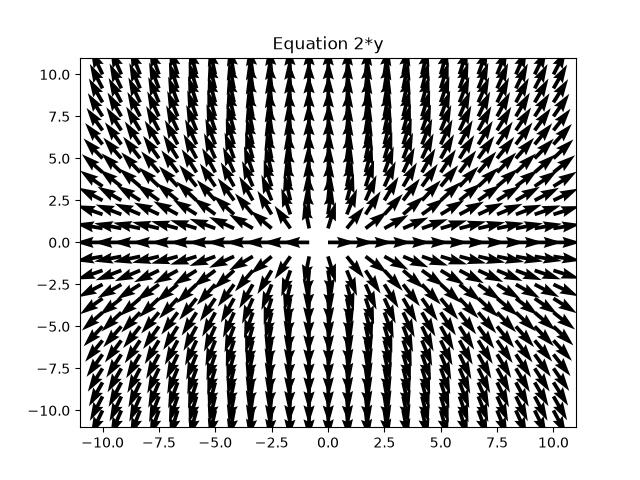
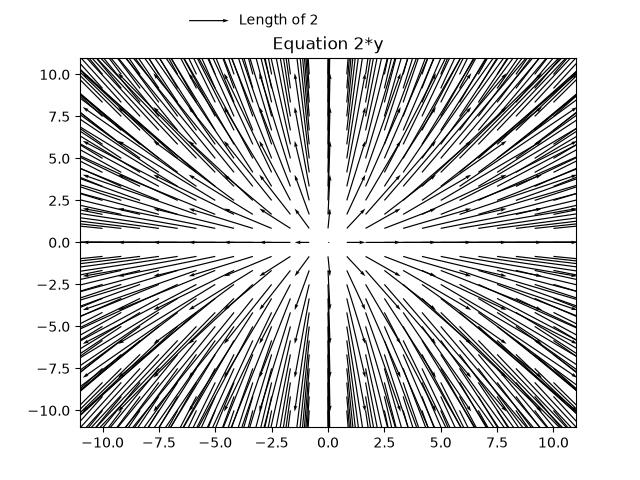
modified arrowheads, added some octave

diff --git a/vector_field.py b/vector_field.py
@@ -32,18 +32,19 @@ exprs = [expr_0,expr_1,expr_2,expr_3,expr_4,expr_5]
 
 
 test = np.linspace(-10,10,25)
-
+I, J = np.meshgrid(test,test)
+step = 0.1
 #fig, ax = plt.subplots(3,2)
 
-for func,expr in zip(funcs,exprs):
-    index = funcs.index(func)
-    for i in test:
-        for j in test:
-            #q = ax[index].quiver(i,j,i+0.5,0.5*func(i,j)+j)
-            q = plt.quiver(i,j,i+0.5,0.5*func(i,j)+j)
-            plt.quiverkey(q, X=10,Y=10,U=0.5,label='Test',labelpos='E')
-            #ax[index].quiverkey(q, X=0.3,Y=0.3,U=1,label='Test',labelpos='E')
-            plt.title("Equation "+expr)
+for index,(func,expr) in enumerate(zip(funcs,exprs)):
+    plt.figure()
+    U = I + step
+    V = step * func(I,J) + J
+    #q = ax[index].quiver(i,j,i+0.5,0.5*func(i,j)+j)
+    q = plt.quiver(I,J,U,V,scale=25)
+    plt.quiverkey(q, X=0.3,Y=1.1,U=2,label='Length of 2',labelpos='E')
+    #ax[index].quiverkey(q, X=0.3,Y=0.3,U=1,label='Test',labelpos='E')
+    plt.title("Equation "+expr)
     plt.savefig(f'fields/field{index}.jpg')
 
 #    plt.show()

diff --git a/matlab/script.m b/matlab/script.m
@@ -1,0 +1,37 @@
+t = y = linspace(-5,5,41);
+
+[tt,yy] = meshgrid (t,y);
+
+%tz = vectorField(tt,yy);
+f = @(t,y) [t-y];
+
+tz = f(tt,yy);
+
+
+quiver (tt,yy,tt+0.5,0.5*tz+yy);
+title("t - y");
+
+print -djpg figure.jpg;
+
+f_2 = @(t,y) [1 - t.^2 - y.^2];
+
+tz = f_2 (tt, yy);
+quiver (tt,yy,tt+0.5,0.5*tz+yy);
+title("1 - t^2 - y^2")
+print -djpg figure2.jpg;
+
+f_3 = @(t,y) [sin(t)-cos(y)];
+
+tz = f_3 (tt, yy);
+
+quiver(tt,yy,tt+0.5,0.5*tz+yy);
+title("sin(t)-cos(y)");
+print -djpg figure3.jpg;
+
+f_4 = @(t,y) [t.^2 + y.^2];
+
+tz = f_4 (tt,yy);
+h = quiver(tt,yy,tt+0.5,0.5*tz+yy);
+set(h, "maxheadsize", 0.25);
+title(" x^2 + y^2")
+print -djpg figure4.jpg

diff --git a/matlab/vectorField.m b/matlab/vectorField.m
@@ -1,0 +1,11 @@
+
+function f = vectorField (t,y)
+  f = t.^2 - y.^2;
+endfunction
+
+
+
+%clf;
+%[x,y] = meshgrid(1:2:20);
+%h = quiver (x,y,)
+
